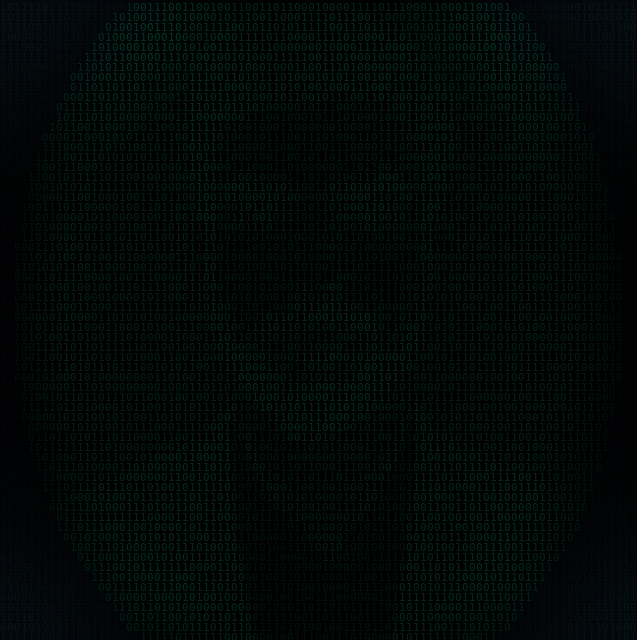
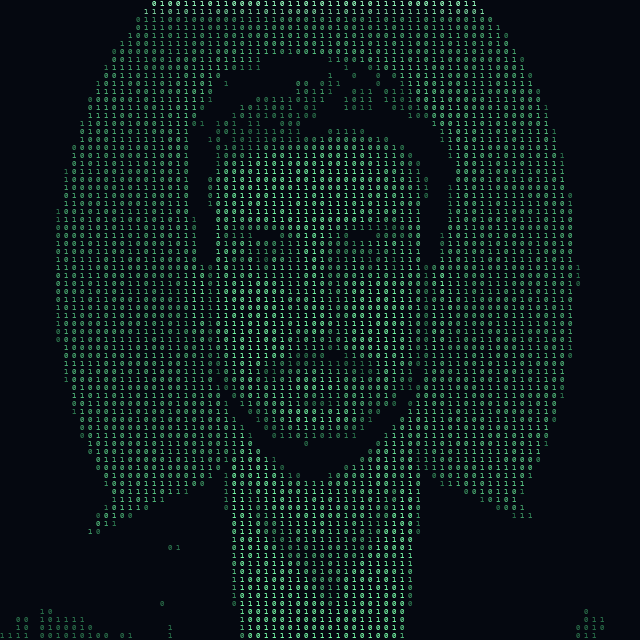
..

diff --git a/scripts/generate_binary_face.py b/scripts/generate_binary_face.py
@@ -28,9 +28,9 @@ from PIL import Image, ImageDraw, ImageFont
 
 
 BG_COLOR = (5, 8, 16)          # near-black navy background
-DIGIT_BRIGHT = (57, 255, 140)  # emerald / bright green
-DIGIT_DIM = (12, 90, 55)       # dim green for low-brightness cells
-SCAN_COLOR = (170, 255, 210)   # brighter scan-line highlight
+DIGIT_BRIGHT = (120, 255, 170) # emerald / bright green highlights
+DIGIT_DIM = (10, 60, 38)       # dim green for low-brightness cells (still readable)
+SCAN_COLOR = (200, 255, 225)   # brighter scan-line highlight
 
 
 def load_font(cell_size: int) -> ImageFont.FreeTypeFont:
@@ -84,12 +84,106 @@ def isolate_portrait(image_bgr: np.ndarray) -> np.ndarray:
     return image_bgr[y0:y0 + side, x0:x0 + side]
 
 
-def compute_brightness_grid(image_bgr: np.ndarray, cols: int, rows: int) -> np.ndarray:
-    """Downsample the image to a cols x rows grid of normalized brightness values."""
+def segment_foreground(image_bgr: np.ndarray) -> np.ndarray:
+    """
+    Build a soft head-and-shoulders silhouette mask so the backdrop
+    renders as clean dark navy while the subject (hair, face, shirt,
+    suit) fills the frame.
+
+    Studio headshot backdrops are frequently lit with a gradient/vignette
+    rather than a flat color, which makes pixel-color background removal
+    (chroma-key style, or GrabCut with a generic rectangle) unreliable.
+    Instead we re-run face detection on the already-cropped portrait and
+    draw a deterministic bust shape (an ellipse for the head, a widening
+    trapezoid for the shoulders) sized off the detected face box, then
+    feather the edges. This is robust across lighting/backdrop styles and
+    always produces a clean, recognizable silhouette.
+    """
+    h, w = image_bgr.shape[:2]
     gray = cv2.cvtColor(image_bgr, cv2.COLOR_BGR2GRAY)
-    gray = cv2.equalizeHist(gray)
-    small = cv2.resize(gray, (cols, rows), interpolation=cv2.INTER_AREA)
-    return small.astype(np.float32) / 255.0
+    cascade_path = cv2.data.haarcascades + "haarcascade_frontalface_default.xml"
+    face_cascade = cv2.CascadeClassifier(cascade_path)
+    faces = face_cascade.detectMultiScale(gray, scaleFactor=1.1, minNeighbors=5, minSize=(60, 60))
+
+    if len(faces) > 0:
+        fx, fy, fw, fh = max(faces, key=lambda f: f[2] * f[3])
+        fcx, fcy = fx + fw / 2, fy + fh / 2
+    else:
+        fw, fh = w * 0.38, h * 0.38
+        fcx, fcy = w / 2, h * 0.42
+
+    mask = np.zeros((h, w), np.float32)
+
+    # Head: ellipse a little taller than the raw face box to include hair.
+    head_rx, head_ry = int(fw * 0.85), int(fh * 1.15)
+    head_cy = int(fcy - fh * 0.05)
+    cv2.ellipse(mask, (int(fcx), head_cy), (head_rx, head_ry), 0, 0, 360, 1.0, -1)
+
+    # Shoulders: trapezoid widening from just below the chin to the bottom
+    # of the frame, wide enough to read as a shirt/suit silhouette.
+    chin_y = int(fcy + fh * 0.65)
+    shoulder_half_top = fw * 0.62
+    shoulder_half_bottom = fw * 1.55
+    poly = np.array(
+        [
+            [fcx - shoulder_half_top, chin_y],
+            [fcx + shoulder_half_top, chin_y],
+            [min(w, fcx + shoulder_half_bottom), h],
+            [max(0, fcx - shoulder_half_bottom), h],
+        ],
+        dtype=np.int32,
+    )
+    cv2.fillConvexPoly(mask, poly, 1.0)
+
+    feather = max(3, int(min(h, w) * 0.015)) | 1  # odd kernel size
+    mask = cv2.GaussianBlur(mask, (feather, feather), 0)
+    return np.clip(mask, 0.0, 1.0)
+
+
+def compute_brightness_grid(image_bgr: np.ndarray, cols: int, rows: int) -> tuple[np.ndarray, np.ndarray]:
+    """
+    Downsample the image to a cols x rows grid of normalized brightness
+    values, restricted to the segmented foreground (the person), so the
+    backdrop renders as clean empty space rather than digit noise.
+
+    Returns (brightness, mask) where mask marks which cells belong to the
+    subject.
+    """
+    fg_mask = segment_foreground(image_bgr)
+
+    gray_u8 = cv2.cvtColor(image_bgr, cv2.COLOR_BGR2GRAY)
+    gray = gray_u8.astype(np.float32)
+
+    # Contrast-stretch using only foreground pixel statistics so the
+    # backdrop (often mid-gray) doesn't skew the range used by the face,
+    # hair, shirt and suit. This preserves the overall shading (dark suit,
+    # mid-tone skin, bright shirt).
+    fg_pixels = gray[fg_mask.astype(bool)]
+    if fg_pixels.size == 0:
+        fg_pixels = gray.reshape(-1)
+    lo, hi = np.percentile(fg_pixels, 2), np.percentile(fg_pixels, 98)
+    if hi - lo < 1e-3:
+        hi = lo + 1e-3
+    stretched = np.clip((gray - lo) / (hi - lo), 0.0, 1.0)
+    stretched = np.power(stretched, 0.85)
+
+    # Blend in CLAHE local contrast so fine features (eyes, brows, beard,
+    # hairline) stay distinguishable instead of collapsing into flat skin
+    # tone once downsampled to a coarse digit grid.
+    clahe = cv2.createCLAHE(clipLimit=3.5, tileGridSize=(10, 10))
+    local_detail = clahe.apply(gray_u8).astype(np.float32) / 255.0
+
+    combined = np.clip(0.5 * stretched + 0.5 * local_detail, 0.0, 1.0)
+
+    # Punch up overall contrast around the midpoint so eyes, brows, beard
+    # and shirt/suit edges read clearly instead of blending into a flat
+    # mid-tone once reduced to a coarse digit grid.
+    combined = np.clip((combined - 0.5) * 1.6 + 0.5, 0.0, 1.0)
+
+    small = cv2.resize(combined, (cols, rows), interpolation=cv2.INTER_AREA)
+    small_mask = cv2.resize(fg_mask.astype(np.float32), (cols, rows), interpolation=cv2.INTER_AREA)
+
+    return small, small_mask
 
 
 def render_frame(
@@ -108,11 +202,12 @@ def render_frame(
     for r in range(rows):
         for c in range(cols):
             b = brightness[r, c]
-            if b < 0.12:
-                continue  # keep background clean where the portrait is dark/empty
+            if b < 0.05:
+                continue  # keep background clean where the portrait is truly empty
 
             digit = "1" if digits[r, c] else "0"
-            t = min(1.0, b * 1.3)
+            t = min(1.0, b) ** 0.7
+            t = 0.15 + 0.85 * t  # floor so mid/low tones stay clearly readable
             color = tuple(int(DIGIT_DIM[i] + (DIGIT_BRIGHT[i] - DIGIT_DIM[i]) * t) for i in range(3))
 
             if scan_row is not None and abs(r - scan_row) <= 1:
@@ -130,7 +225,7 @@ def generate_binary_face(
     input_path: str,
     output_path: str,
     size: int = 640,
-    cell_size: int = 10,
+    cell_size: int = 8,
     frame_count: int = 12,
     frame_duration_ms: int = 90,
     seed: int = 42,
@@ -151,7 +246,10 @@ def generate_binary_face(
     rows = size // cell_size
     canvas_size = cols * cell_size
 
-    brightness = compute_brightness_grid(portrait, cols, rows)
+    brightness, fg_mask = compute_brightness_grid(portrait, cols, rows)
+    # Zero out the backdrop so only the person (hair, face, shirt, suit)
+    # renders as digits, keeping the background clean dark navy.
+    brightness = brightness * np.clip(fg_mask * 1.6, 0.0, 1.0)
     font = load_font(cell_size)
 
     rng = np.random.default_rng(seed)
@@ -185,7 +283,7 @@ def parse_args(argv: list[str]) -> argparse.Namespace:
     parser.add_argument("input", help="Path to the source portrait image")
     parser.add_argument("output", help="Path to write the output GIF")
     parser.add_argument("--size", type=int, default=640, help="Output canvas size in pixels (default: 640)")
-    parser.add_argument("--cell-size", type=int, default=10, help="Size of each digit cell in pixels (default: 10)")
+    parser.add_argument("--cell-size", type=int, default=8, help="Size of each digit cell in pixels (default: 8)")
     parser.add_argument("--frames", type=int, default=12, help="Number of animation frames (default: 12)")
     parser.add_argument("--duration", type=int, default=90, help="Frame duration in milliseconds (default: 90)")
     return parser.parse_args(argv)
